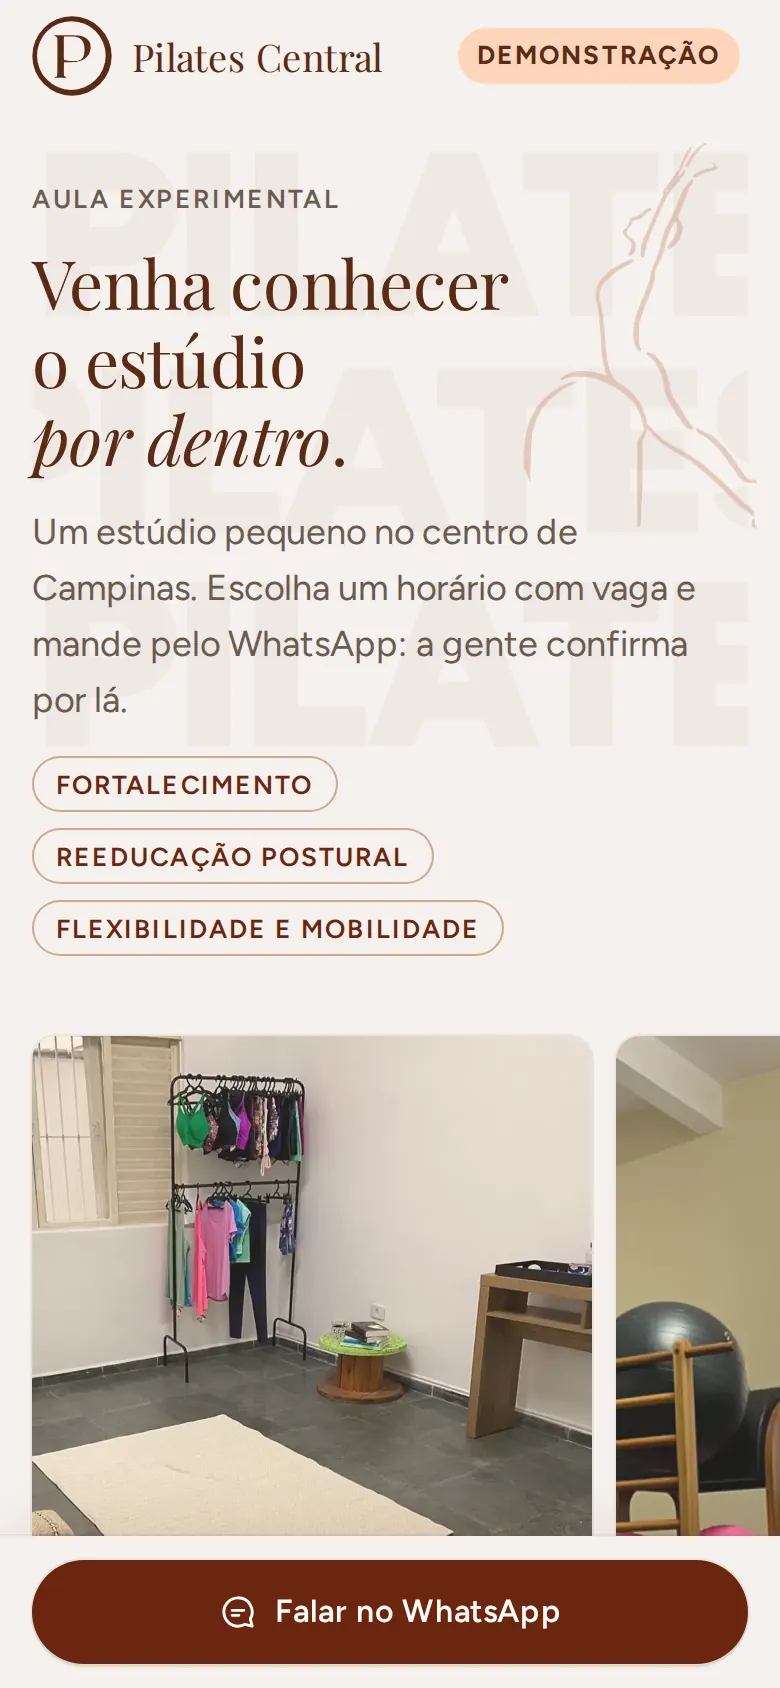
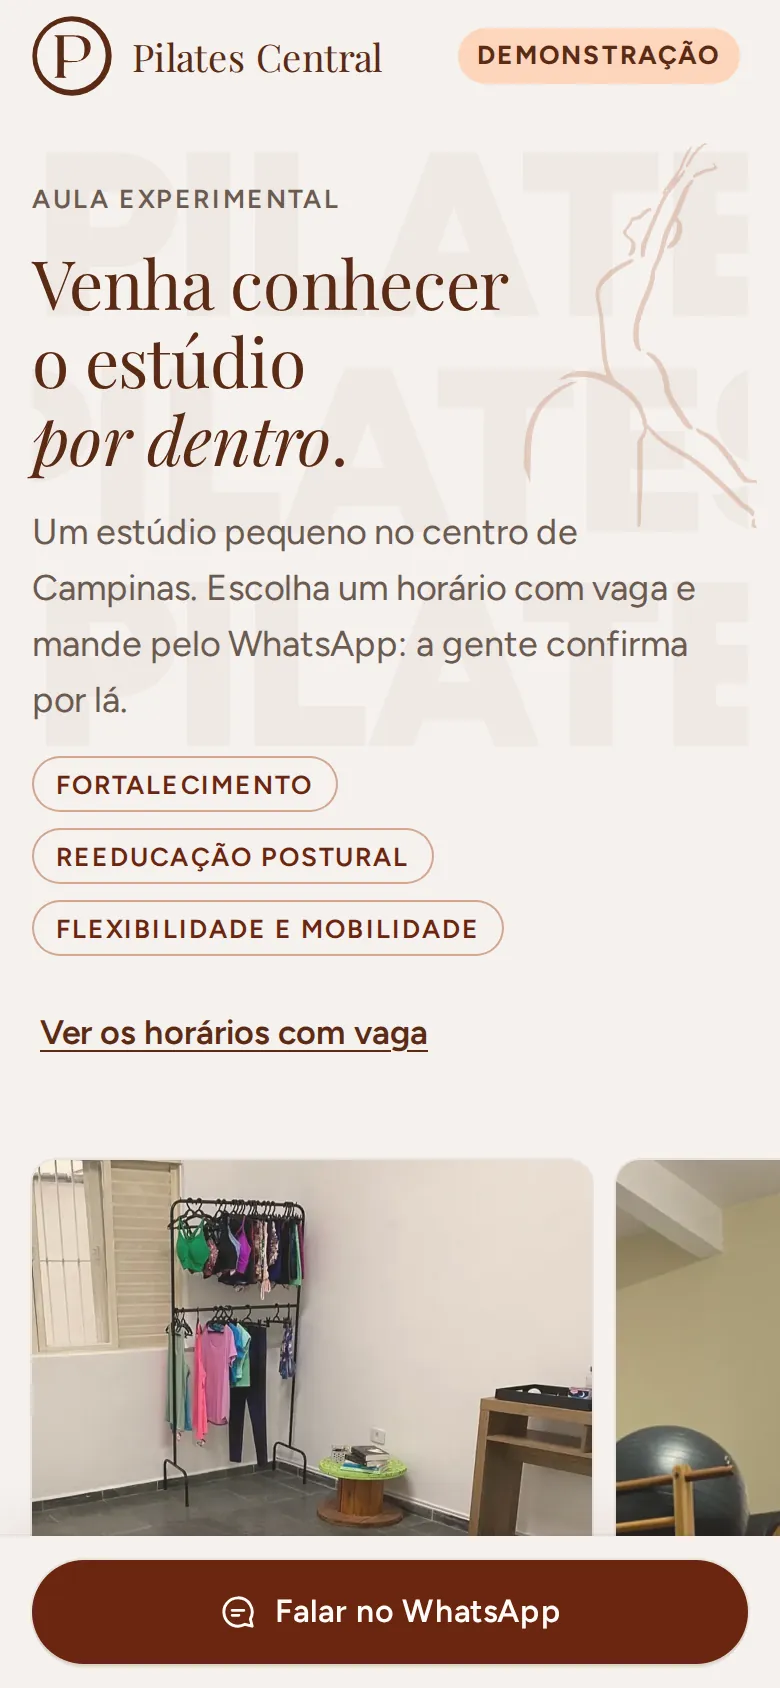
readme e roteiro com a revisão de produto, os toques por tarefa e as capturas novas

Changed region(s): [[0.0308, 0.5853, 1.0, 0.9242]]

diff --git a/README.md b/README.md
@@ -47,13 +47,19 @@ tela inicial sem loja e funciona sem internet no modo demonstração.
 ### O que faz
 
 - **Hoje:** próxima aula (ou a que está acontecendo), quantos alunos são esperados, quem avisou
-  que não vem e as reposições do dia.
+  que não vem e as reposições do dia. Aula que já acabou com alguém sem marcação aparece em
+  "Chamada por fazer", a um toque. Em "Para olhar", as reposições perto de vencer e, pelo nome,
+  quem anda faltando (o toque abre a ficha, com o WhatsApp). No dia sem aula, diz quando é a próxima.
 - **Agenda e chamada:** faixa de dias, unidade, aulas por manhã, tarde e noite, vagas em pontos
   (com o número escrito). Tocar na aula abre a chamada numa folha: presente, faltou ou avisou,
-  com "Desfazer"; "Todos presentes" num toque. Quem avisou no prazo ganha crédito e, ali mesmo,
-  "Encaixar em outro horário" mostra as aulas com vaga.
+  com "Desfazer"; "Todos presentes" num toque. A chamada abre meia hora antes da aula (antes disso,
+  só o aviso de falta, e o card do Hoje diz "Ver quem vem"): ninguém marca de manhã, sem querer,
+  a presença da turma da noite. Quem
+  avisou no prazo ganha crédito e, ali mesmo, "Encaixar em outro horário" mostra as aulas com vaga.
 - **Alunos:** lista com busca (sem acento, ou pelo final do telefone), filtro por unidade e
-  situação, e um destaque discreto para quem faltou várias seguidas. A ficha mostra plano, turmas
+  situação ("Ativos" é só quem está vindo, o mesmo número do Financeiro; quem está pausado ou
+  arquivado tem a sua lista, e a busca sem resultado diz em qual lista achou a pessoa), e um
+  destaque discreto para quem faltou várias seguidas. A ficha mostra plano, turmas
   fixas (com aviso quando o plano 2x ou 3x não bate com as turmas), frequência do mês, créditos
   de reposição, mensalidade e pagamentos, e atalhos para WhatsApp e ligação. Cadastro e edição
   com validação em português; pausar (guarda o lugar nas turmas) e arquivar (libera o lugar).
@@ -66,22 +72,39 @@ tela inicial sem loja e funciona sem internet no modo demonstração.
   reposição. Tudo com "Desfazer".
 - **Financeiro** (só a administração): mês por unidade com previsto, recebido, em aberto e alunos
   ativos; quem está em aberto (atrasados primeiro) com lembrete pronto pelo WhatsApp e lançamento
-  rápido (valor sugerido pelo plano, forma preferida já marcada); totais por forma de pagamento
+  rápido (valor sugerido pelo plano, forma preferida já marcada; no "Lançar pagamento" geral, a
+  escolha do aluno começa por quem ainda não pagou o mês, com o valor); totais por forma de pagamento
   (Pix, cartões, dinheiro, transferência, Gympass, TotalPass, outro); gráfico dos últimos seis
   meses; planilha do mês em CSV.
-- **Mais:** perfil, tema, instalar no celular e, para a administração, o estúdio (nome, WhatsApp,
-  app do aluno e página pública ligados ou não), regras de reposição (antecedência do aviso,
-  validade, limite por mês, a partir de quantas ausências seguidas destacar), unidades e equipe.
+- **Mais:** perfil, tema, instalar no celular, o link da página de aula experimental (ver,
+  compartilhar ou copiar, para pôr no Instagram) e, para a administração, o estúdio (nome,
+  WhatsApp, app do aluno e página pública ligados ou não), regras de reposição (antecedência do
+  aviso, validade, limite por mês, a partir de quantas ausências seguidas destacar), unidades e equipe.
 - **App do aluno** (quando a administração liga e libera o aluno na ficha): as próximas aulas, a
   próxima em destaque; "Não vou poder ir" no prazo gera a reposição e libera o lugar; "Desfazer"
   devolve; a aba Reposição mostra só aulas da unidade dele, com vaga, dentro da validade e do
   prazo; desistir da reposição devolve o crédito. Em cima da hora, o app manda para o WhatsApp.
 - **Página de aula experimental** (sem login): o espaço em fotos, os horários com vaga dos
-  próximos 14 dias por dia, o endereço com link para o mapa e o pedido pelo WhatsApp do estúdio
-  com a mensagem pronta ("quero marcar uma aula experimental: sexta, 16 de outubro, às 18h").
-  Nada é gravado.
+  próximos 14 dias por dia (com a hora em que cada aula termina), um atalho para eles logo na
+  capa, o endereço com link para o mapa, "Primeira vez?" (não precisa de experiência, roupa
+  confortável, quanto dura a aula) e o pedido pelo WhatsApp do estúdio, sempre à vista, com a
+  mensagem pronta ("quero marcar uma aula experimental: sexta, 16 de outubro, às 18h"). Nada é gravado.
 - **LGPD:** aviso de privacidade em português simples; na ficha do aluno, baixar os dados dele num
   arquivo e excluir o cadastro (com confirmação).
+
+### Toques por tarefa
+
+Contados num iPhone SE (375 x 667), com uma mão, pelo teste `e2e/toques.spec.ts` nos dois motores.
+Digitar na busca e rolar não contam.
+
+| Tarefa | Toques | Caminho |
+|---|:-:|---|
+| Chamada da turma inteira | 2 (3 com uma falta) | Hoje, **Abrir chamada**, **Todos presentes** (e **Faltou** em quem não veio) |
+| Achar um aluno | 3 | **Alunos**, busca, o aluno |
+| Lançar pagamento | 3 ou 4 | **Financeiro**, **Lançar** na linha em aberto, **Lançar R$**; ou **Lançar pagamento**, o aluno (quem deve vem primeiro), **Lançar R$** |
+| Encaixar reposição | 5 | **Alunos**, **Reposições**, **Encaixar**, a aula, confirmar; ou na chamada: **Avisou**, **Encaixar em outro horário**, a aula, confirmar |
+| O aluno remarca a própria aula | 5 | **Não vou poder ir**, **Avisar que não vou**, **reposições para marcar**, a aula, **Confirmar reposição** |
+| Visitante pede a aula experimental | 1 a 3 | **Falar no WhatsApp**; ou **Ver os horários com vaga**, o horário, **Pedir no WhatsApp** |
 
 ### Quem vê o quê
 
@@ -112,8 +135,8 @@ as regras do Firestore negam o que a tela não oferece (ver [docs/seguranca.md](
 4. Bons caminhos: **Alunos > Reposições > Encaixar**; **Financeiro > Lançar** num aluno em aberto;
    **Agenda > 18h > Avisou > Encaixar em outro horário**; **Mais > Equipe > Passar a conta**;
    como aluno, **Não vou poder ir** numa aula e depois **Reposição**; e a
-   [página de aula experimental](https://kohijow.github.io/pilates-central-web/experimental/), que
-   mostra a vaga que o aviso abriu.
+   [página de aula experimental](https://kohijow.github.io/pilates-central-web/experimental/)
+   (também pela entrada da demonstração e em **Mais**), que mostra a vaga que o aviso abriu.
 
 Com o projeto Firebase do estúdio configurado, a tela inicial vira duas portas: **Entrar** (o
 estúdio de verdade, com e-mail e senha) e **Ver demonstração**. O passo a passo para criar o
@@ -348,8 +371,10 @@ docs/            roteiro, modelo de dados, Firebase, segurança e capturas de te
 ## Roteiro
 
 Etapa 1: fundação, agenda e presença. Etapa 2: gestão do estúdio (alunos, turmas, reposição,
-presença, financeiro, unidades, equipe e configurações). Etapa 3 (esta): Firebase com papéis e
-convites, regras do Firestore testadas, app do aluno, página de aula experimental e LGPD. Detalhes
+presença, financeiro, unidades, equipe e configurações). Etapa 3: Firebase com papéis e
+convites, regras do Firestore testadas, app do aluno, página de aula experimental e LGPD. Depois,
+uma revisão de produto comparou o app, pedido por pedido, com o que o estúdio precisa, e contou
+os toques de cada tarefa (a tabela acima). Detalhes
 e o que falta (publicar as regras e fazer o primeiro acesso no projeto real) em
 [docs/roteiro.md](docs/roteiro.md).
 

diff --git a/docs/roteiro.md b/docs/roteiro.md
@@ -127,6 +127,50 @@ trabalho precisa saber. Atualizar a cada entrega.
 - [ ] Cancelar o dia inteiro de uma vez (feriado móvel)
 - [ ] Medir a View Transition num iPhone de verdade
 - [ ] Deixar o caminho aberto para Gympass (Wellhub) e TotalPass, sem integrar agora (as formas de pagamento já existem)
+- [ ] Aula experimental na agenda: a equipe confirma pelo WhatsApp, mas não tem onde pôr a pessoa na aula. Caminho sugerido: `RegistroAula.experimentais` (mapa de id para nome e telefone, só a equipe lê), participante com origem `experimental` em `montarAula` (ocupa vaga, entra na chamada, não gera crédito), "Marcar aula experimental" na folha da aula, vagas e página pública recalculadas com ela, esquema novo em `firestore.rules` com teste no emulador (professor e aluno não leem nome nem telefone) e "Virar aluno" levando nome e telefone para o cadastro
+- [ ] Textos da página pública configuráveis em Mais, Estúdio (frase de apresentação e focos), em vez de fixos em `src/experimental/PaginaExperimental.tsx`; pede campos novos em `Configuracao` e em `publico/estudio`, com o esquema das regras
+
+## Revisão de produto: o pedido do estúdio x o app (feita)
+
+Comparação item por item com o que o estúdio pediu, usando o app como a administração e como um
+professor num iPhone SE (375 x 667, uma mão), e contando os toques (`e2e/toques.spec.ts`).
+
+### Atendido
+- [x] Alunos cadastrados por unidade, com busca, ficha, pausa e arquivo
+- [x] Agenda das aulas com os alunos dentro (turmas fixas de 2 ou 3 vezes por semana; a aula é derivada da turma)
+- [x] Controle de presença por aula, frequência por aluno e por turma, destaque de quem anda faltando
+- [x] Reposição: o aviso tira o aluno daquele dia e gera crédito; o encaixe é só em aula com vaga; central de reposição
+- [x] Financeiro preenchido à mão: alunos ativos por unidade, formas de pagamento (Gympass e TotalPass incluídos), recebido x previsto, em aberto, últimos meses, planilha
+- [x] Uso pelo celular, pela administração e pelos professores (PWA no iPhone e no Android)
+- [x] Desejável: o aluno avisa a falta e escolhe a reposição sozinho; com o app do aluno desligado, a equipe faz por ele
+- [x] Vários administradores, responsável pela conta e passagem da conta; textos sem pressupor uma pessoa só
+- [x] Nada de treino, vídeo de aula, cronômetro, evolução corporal, conquistas ou onboarding de marketing (conferido no código)
+
+### Parcial
+- [ ] Página de aula experimental: mostra a agenda com vagas e manda o pedido pelo WhatsApp, mas não há como **registrar a aula experimental na agenda** (ocupar a vaga e aparecer na chamada) sem cadastrar a pessoa como aluno. Ver "Ficou para depois".
+- [ ] Produto genérico de agendamento: a interface fala em estúdio, turma e aula, mas a página pública tem textos fixos deste estúdio (a frase "no centro de Campinas" e os três focos) e a marca d'água PILATES. Ver "Ficou para depois".
+- [ ] Duas portas no site publicado: o código está pronto; faltam as variáveis `FIREBASE_*` no GitHub (o commit da configuração foi negado como credencial). Ver etapa 3.
+
+### Corrigido nesta revisão
+- [x] "Ativos" na lista de alunos mostrava também os pausados (39), enquanto o Financeiro dizia 37 ativos; agora são o mesmo número, e a busca sem resultado diz em que lista achou a pessoa
+- [x] "Todos presentes" aparecia como ação principal às 10h na aula das 18h; a chamada agora abre meia hora antes (`ABERTURA_DA_CHAMADA_MIN` em `src/dominio/presenca.ts`); o aviso de falta continua livre, e o card do Hoje diz "Ver quem vem" até a chamada abrir
+- [x] "Lançar pagamento" listava em ordem alfabética (quem já pagou no topo); agora quem deve o mês vem primeiro, com o valor: 4 toques
+- [x] "Para olhar" levava para a lista inteira de alunos; agora cada aluno sumido aparece pelo nome e abre a ficha (até 3; mais que isso, uma linha só)
+- [x] "Trocar de perfil" deixava quem entrava depois na aba Mais; agora começa no Hoje (equipe) ou em Minhas aulas (aluno)
+- [x] A página pública só era achada em Mais, Estúdio; agora está na entrada da demonstração e em Mais, com compartilhar ou copiar o link
+- [x] Página pública: atalho para os horários na capa (no iPhone SE eles ficavam abaixo das fotos), fim de cada aula também com várias unidades, "Primeira vez?" para quem nunca fez aula
+- [x] Grade de turmas cortava "frequência 100%" em reticências no celular estreito
+- [x] Domingo sem aula: o Hoje diz quando é a próxima
+- [x] Aula que acabou com alguém sem marcação só aparecia na Agenda; agora o Hoje mostra "Chamada por fazer", a um toque
+- [x] Teste de telefone com um fixo de cara real trocado por um de zeros
+
+### Toques contados (iPhone SE, `e2e/toques.spec.ts`)
+- [x] Chamada da turma inteira: 2 toques (3 com uma falta); limite pedido: 3
+- [x] Achar um aluno: 3; limite 3
+- [x] Lançar pagamento: 3 pela lista de em aberto, 4 pelo botão geral; limite 4
+- [x] Encaixar reposição: 5 pela central ou pela chamada; limite 5
+- [x] O aluno remarca a própria aula: 5
+- [x] Visitante até o pedido no WhatsApp: 1 (sem escolher horário) a 3
 
 ## Notas para quem continuar
 
